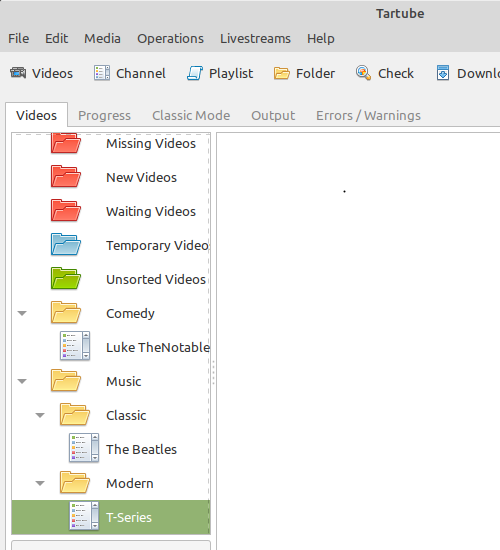
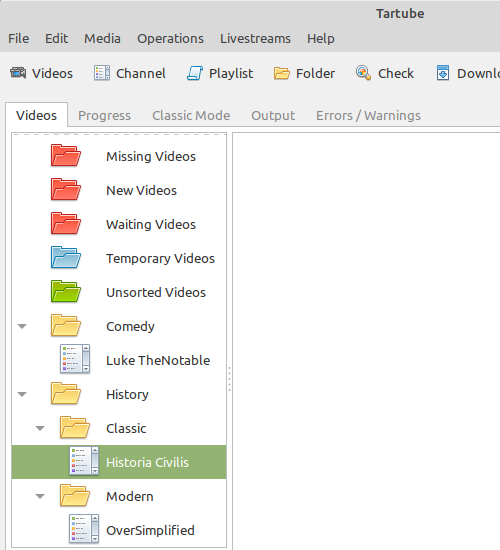
Remove DMCA bait

Changed region(s): [[0.0, 0.2164, 0.48, 1.0], [0.03, 0.68, 0.06, 0.7418], [0.03, 0.5564, 0.06, 0.6182]]

diff --git a/README.rst b/README.rst
@@ -31,14 +31,15 @@ Problems can be reported at `our GitHub page <https://github.com/axcore/tartube/
 2 Why should I use Tartube?
 ===========================
 
-- You can download individual videos, and even whole channels and playlists, from YouTube and hundreds of other websites (see `here <https://ytdl-org.github.io/youtube-dl/supportedsites.html>`__ for a full list)
-- You can fetch information about those videos, channels and playlists, without actually downloading anything
+- You can fetch a list of videos from your favourite channels and playlists on `YouTube <https://www.youtube.com/>`__, `BitChute <https://www.bitchute.com/>`__, and hundreds of other websites (see `here <https://ytdl-org.github.io/youtube-dl/supportedsites.html>`__ for a full list)
+- In buffering is an issue, you can download a temporary copy of a video before automatically opening it in your favourite media player
 - **Tartube** will organise your videos into convenient folders (if that's what you want)
 - **Tartube** can alert you when livestreams are starting (**YouTube** only)
-- If creators upload their videos to more than one website (**YouTube** and **BitChute**, for example), you can download videos from both sites without creating duplicates
+- If creators upload their videos to more than one website (**YouTube** and **BitChute**, for example), **Tartube** can interact with both sites without creating duplicates
+- Certain websites operate an "only one opinion allowed" policy. If you think that the censors will remove a video, against the wishes of its creators and before you've had a chance to watch it, **Tartube** can make an archive copy
+- Certain websites manipulate search results, repeatedly unsubscribe people from their favourite channels and/or deliberately conceal videos that they don't like. **Tartube** won't do any of those things
 - **Tartube** can, in some circumstances, see videos that are region-blocked and/or age-restricted
-- You can easily grab just the audio, rather than full videos, if you want
-- Certain popular websites manipulate search results, repeatedly unsubscribe people from their favourite channels and/or deliberately conceal videos that they don't like. **Tartube** won't do any of those things
+- If you want to listen to your favourite discussion videos, for example while driving a car, **Tartube** can make an archive copy of just the audio, rather than the full video
 - **Tartube** is free and open-source software
 
 2.1 What's new in version 2.2.0
@@ -578,7 +579,7 @@ Click the **'Folder'** button near the top of the window,  and create a folder c
 .. image:: screenshots/example10.png
   :alt: Adding a folder
 
-Then repeat that process to create a folder called **Music**. You can then drag-and-drop your channels and playlists into those folders.
+Then repeat that process to create a folder called **History**. You can then drag-and-drop your channels and playlists into those folders.
 
 .. image:: screenshots/example11.png
   :alt: A channel inside a folder
@@ -633,21 +634,21 @@ At the moment, the general download options apply to *all* the videos, channels,
 .. image:: screenshots/example14.png
   :alt: The window with only general download options applied
   
-Now, suppose you want to apply some download options to the **Music** folder:
+Now, suppose you want to apply some download options to the **History** folder:
 
 -  Right-click the folder, and select **Apply download options...**
 
-In the new window, click the **'OK'** button. The options are applied to *everything* in the **Music folder**. A pen icon appears above the folder to remind you of this.
+In the new window, click the **'OK'** button. The options are applied to *everything* in the **History folder**. A pen icon appears above the folder to remind you of this.
 
 .. image:: screenshots/example15.png
-  :alt: Download options applied to the Music folder
+  :alt: Download options applied to the History folder
 
-Now, suppose you want to add a *different* set of download options, but only for the channel **The Beatles**.
+Now, suppose you want to add a *different* set of download options, but only for the channel **OverSimplified**.
 
 -  Right-click the channel, and select **Apply download options...**
 -  In the new window, click the **'OK'** button
 
-The previous set of download options still applies to everything in the **Music** folder, *except* the channel **The Beatles**.
+The previous set of download options still applies to everything in the **History** folder, *except* the channel **OverSimplified**.
 
 .. image:: screenshots/example16.png
   :alt: Download options applied to the Village People channel
